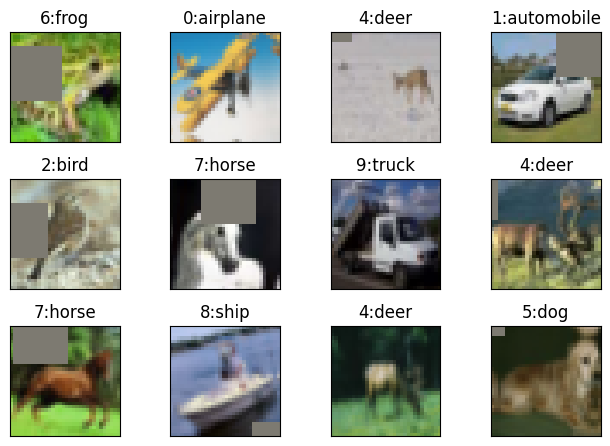
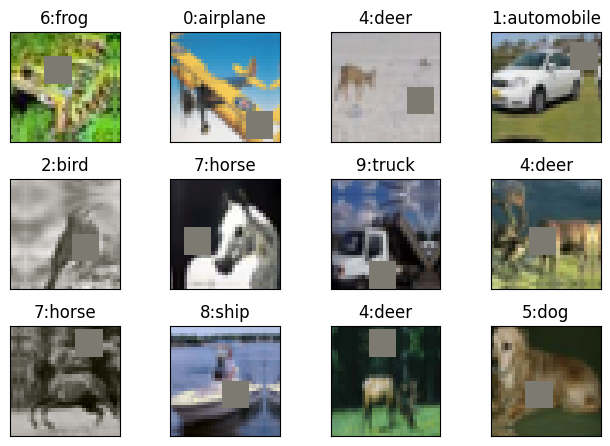
readme

diff --git a/summary.py b/summary.py
@@ -1,4 +1,4 @@
-from custom_model import Model
+from custom_resnet import Model
 
-model = Model()
+model = Model(dropout=0.05)
 model.summary(input_size=(512, 3, 32, 32))

diff --git a/README.md b/README.md
@@ -18,13 +18,12 @@ import albumentations as A
 
 alb_transforms = [
     A.Normalize(mean, std),
+    A.ToGray(p=0.2),
+    A.PadIfNeeded(40, 40, p=1),
+    A.RandomCrop(32, 32, p=1),
     A.HorizontalFlip(p=0.5),
-    A.ShiftScaleRotate(shift_limit=0.0625, scale_limit=0.1, rotate_limit=15),
-    # Padding value doesnt matter here.
-    A.PadIfNeeded(64, 64, border_mode=cv2.BORDER_CONSTANT, value=0, p=1),
     # Since normalisation was the first step, mean is already 0, so cutout fill_value = 0
-    A.CoarseDropout(max_holes=1, max_height=16, max_width=16, fill_value=0, p=0.6),
-    A.CenterCrop(32, 32, p=1),
+    A.CoarseDropout(max_holes=1, max_height=8, max_width=8, fill_value=0, p=1),
     A.pytorch.ToTensorV2()
 ]
 ```
@@ -32,59 +31,86 @@ alb_transforms = [
 ![CIFAR10 Examples](assets/cifar_aug.png)
 
 ### 2. model.py Module
-The model has following unique properties:
-1. It does NOT use any Maxpool or Strided convolutions for increasing RF.
-2. It uses ONLY dilation for increasing RF.
-3. It has 4 (convolution + transition) blocks.
-4. ALL Convolution blocks make use of Depthwise Separable Convolutions.
-5. All Convolution blocks use Skip Connections internally.
+Since the model is very large and was observed to overfit, we added dropout.
 
-The Depthwise Separable Convolution is implemented using a small building block which is as follows:
-
-```python
-self.convlayer = n.Sequential(
-    nn.Conv2d(input_c, output_c, 3, bias=bias, padding=padding, groups=input_c, dilation=dilation,
-              padding_mode='replicate'),
-    nn.BatchNorm2d(output_c),
-    nn.ReLU(),
-    nn.Conv2d(output_c, output_c, 1, bias=bias),
-)
 ```
-The skip connection is implemented in forward function as below.
-
-```python
-def forward(self, x):
-    x_ = x
-    x = self.convlayer(x)
-    x = self.normlayer(x)
-    if self.skip:
-        x += x_
-    x = self.actlayer(x)
-    if self.droplayer is not None:
-        x = self.droplayer(x)
-    return x
+=============================================================================================================================
+Layer (type:depth-idx)                             Output Shape              Param #                   Param %
+=============================================================================================================================
+Model                                              [512, 10]                 --                             --
+├─Sequential: 1-1                                  [512, 10]                 --                             --
+│    └─CustomLayer: 2-1                            [512, 64, 32, 32]         --                             --
+│    │    └─ConvLayer: 3-1                         [512, 64, 32, 32]         --                             --
+│    │    │    └─Sequential: 4-1                   [512, 64, 32, 32]         --                             --
+│    │    │    │    └─Conv2d: 5-1                  [512, 64, 32, 32]         1,728                       0.03%
+│    │    │    │    └─BatchNorm2d: 5-2             [512, 64, 32, 32]         128                         0.00%
+│    │    │    │    └─ReLU: 5-3                    [512, 64, 32, 32]         --                             --
+│    │    │    │    └─Dropout: 5-4                 [512, 64, 32, 32]         --                             --
+│    └─CustomLayer: 2-2                            [512, 128, 16, 16]        --                             --
+│    │    └─ConvLayer: 3-2                         [512, 128, 16, 16]        --                             --
+│    │    │    └─Sequential: 4-2                   [512, 128, 16, 16]        --                             --
+│    │    │    │    └─Conv2d: 5-5                  [512, 128, 32, 32]        73,728                      1.12%
+│    │    │    │    └─MaxPool2d: 5-6               [512, 128, 16, 16]        --                             --
+│    │    │    │    └─BatchNorm2d: 5-7             [512, 128, 16, 16]        256                         0.00%
+│    │    │    │    └─ReLU: 5-8                    [512, 128, 16, 16]        --                             --
+│    │    │    │    └─Dropout: 5-9                 [512, 128, 16, 16]        --                             --
+│    │    └─Sequential: 3-3                        [512, 128, 16, 16]        --                             --
+│    │    │    └─ConvLayer: 4-3                    [512, 128, 16, 16]        --                             --
+│    │    │    │    └─Sequential: 5-10             [512, 128, 16, 16]        --                             --
+│    │    │    │    │    └─Conv2d: 6-1             [512, 128, 16, 16]        147,456                     2.24%
+│    │    │    │    │    └─BatchNorm2d: 6-2        [512, 128, 16, 16]        256                         0.00%
+│    │    │    │    │    └─ReLU: 6-3               [512, 128, 16, 16]        --                             --
+│    │    │    │    │    └─Dropout: 6-4            [512, 128, 16, 16]        --                             --
+│    │    │    └─ConvLayer: 4-4                    [512, 128, 16, 16]        --                             --
+│    │    │    │    └─Sequential: 5-11             [512, 128, 16, 16]        --                             --
+│    │    │    │    │    └─Conv2d: 6-5             [512, 128, 16, 16]        147,456                     2.24%
+│    │    │    │    │    └─BatchNorm2d: 6-6        [512, 128, 16, 16]        256                         0.00%
+│    │    │    │    │    └─ReLU: 6-7               [512, 128, 16, 16]        --                             --
+│    │    │    │    │    └─Dropout: 6-8            [512, 128, 16, 16]        --                             --
+│    └─CustomLayer: 2-3                            [512, 256, 8, 8]          --                             --
+│    │    └─ConvLayer: 3-4                         [512, 256, 8, 8]          --                             --
+│    │    │    └─Sequential: 4-5                   [512, 256, 8, 8]          --                             --
+│    │    │    │    └─Conv2d: 5-12                 [512, 256, 16, 16]        294,912                     4.49%
+│    │    │    │    └─MaxPool2d: 5-13              [512, 256, 8, 8]          --                             --
+│    │    │    │    └─BatchNorm2d: 5-14            [512, 256, 8, 8]          512                         0.01%
+│    │    │    │    └─ReLU: 5-15                   [512, 256, 8, 8]          --                             --
+│    │    │    │    └─Dropout: 5-16                [512, 256, 8, 8]          --                             --
+│    └─CustomLayer: 2-4                            [512, 512, 4, 4]          --                             --
+│    │    └─ConvLayer: 3-5                         [512, 512, 4, 4]          --                             --
+│    │    │    └─Sequential: 4-6                   [512, 512, 4, 4]          --                             --
+│    │    │    │    └─Conv2d: 5-17                 [512, 512, 8, 8]          1,179,648                  17.95%
+│    │    │    │    └─MaxPool2d: 5-18              [512, 512, 4, 4]          --                             --
+│    │    │    │    └─BatchNorm2d: 5-19            [512, 512, 4, 4]          1,024                       0.02%
+│    │    │    │    └─ReLU: 5-20                   [512, 512, 4, 4]          --                             --
+│    │    │    │    └─Dropout: 5-21                [512, 512, 4, 4]          --                             --
+│    │    └─Sequential: 3-6                        [512, 512, 4, 4]          --                             --
+│    │    │    └─ConvLayer: 4-7                    [512, 512, 4, 4]          --                             --
+│    │    │    │    └─Sequential: 5-22             [512, 512, 4, 4]          --                             --
+│    │    │    │    │    └─Conv2d: 6-9             [512, 512, 4, 4]          2,359,296                  35.89%
+│    │    │    │    │    └─BatchNorm2d: 6-10       [512, 512, 4, 4]          1,024                       0.02%
+│    │    │    │    │    └─ReLU: 6-11              [512, 512, 4, 4]          --                             --
+│    │    │    │    │    └─Dropout: 6-12           [512, 512, 4, 4]          --                             --
+│    │    │    └─ConvLayer: 4-8                    [512, 512, 4, 4]          --                             --
+│    │    │    │    └─Sequential: 5-23             [512, 512, 4, 4]          --                             --
+│    │    │    │    │    └─Conv2d: 6-13            [512, 512, 4, 4]          2,359,296                  35.89%
+│    │    │    │    │    └─BatchNorm2d: 6-14       [512, 512, 4, 4]          1,024                       0.02%
+│    │    │    │    │    └─ReLU: 6-15              [512, 512, 4, 4]          --                             --
+│    │    │    │    │    └─Dropout: 6-16           [512, 512, 4, 4]          --                             --
+│    └─MaxPool2d: 2-5                              [512, 512, 1, 1]          --                             --
+│    └─Flatten: 2-6                                [512, 512]                --                             --
+│    └─Linear: 2-7                                 [512, 10]                 5,130                       0.08%
+=============================================================================================================================
+Total params: 6,573,130
+Trainable params: 6,573,130
+Non-trainable params: 0
+Total mult-adds (Units.GIGABYTES): 194.18
+=============================================================================================================================
+Input size (MB): 6.29
+Forward/backward pass size (MB): 2382.41
+Params size (MB): 26.29
+Estimated Total Size (MB): 2414.99
+=============================================================================================================================
 ```
-And finally model is put together in class Model.
-
-#### Receptive field Calculations:
-
-| Layer | Input Size | Input RF | Jump In | Padding | Kernel Size | Dilation | Eff. Kernel Size | Stride | Output Size | Output RF | Jump Out |
-| ----- | ---------- | -------- | ------- | ------- | ----------- | -------- | ---------------- | ------ | ----------- | --------- | -------- |
-| 0     | 32         | 1        | 1       | 0       | 1           | 1        | 1                | 1      | 32          | 1         | 1        |
-| 1     | 32         | 1        | 1       | 1       | 3           | 1        | 3                | 1      | 32          | 3         | 1        |
-| 2     | 32         | 3        | 1       | 1       | 3           | 1        | 3                | 1      | 32          | 5         | 1        |
-| 3     | 32         | 5        | 1       | 0       | 3           | 1        | 3                | 1      | 30          | 7         | 1        |
-| 4     | 30         | 7        | 1       | 1       | 3           | 1        | 3                | 1      | 30          | 9         | 1        |
-| 5     | 30         | 9        | 1       | 1       | 3           | 1        | 3                | 1      | 30          | 11        | 1        |
-| 6     | 30         | 11       | 1       | 0       | 3           | 2        | 5                | 1      | 26          | 15        | 1        |
-| 7     | 26         | 15       | 1       | 1       | 3           | 1        | 3                | 1      | 26          | 17        | 1        |
-| 8     | 26         | 17       | 1       | 1       | 3           | 1        | 3                | 1      | 26          | 19        | 1        |
-| 9     | 26         | 19       | 1       | 0       | 3           | 4        | 9                | 1      | 18          | 27        | 1        |
-| 10    | 18         | 27       | 1       | 1       | 3           | 1        | 3                | 1      | 18          | 29        | 1        |
-| 11    | 18         | 29       | 1       | 1       | 3           | 1        | 3                | 1      | 18          | 31        | 1        |
-| 12    | 18         | 31       | 1       | 0       | 3           | 8        | 17               | 1      | 2           | 47        | 1        |
-| 13    | 2          | 47       | 1       | 0       | 2           | 1        | 2                | 2      | 1           | 48        | 2        |
-| 14    | 1          | 48       | 2       | 0       | 1           | 1        | 1                | 1      | 1           | 48        | 2        |
 
 ### 3. backprop.py Module
 This module contains 3 classes:
@@ -94,6 +120,10 @@ This module contains 3 classes:
 
 Experiment class performs train-test iterations for a given number of epochs or a given validation target. It can also find and plot misclassified examples using a simple function.
 
+It also finds the max LR using LRFinder for OneCycleLR.
+
+![LRFinder](assets/lrfinder.png)
+
 Train and Test classes perform training and testing respectively on given model and dataset. They also accumulate statistics which can be plotted using a simple member functions.
 
 ### 4. utils.py Modele
@@ -101,9 +131,9 @@ This module contains miscellaneous functions like detecting device and setting r
 
 ## The Results
 
-Best Train Accuracy: 85.85%
+Best Train Accuracy: 92.86%
 
-Best Test Accuracy: 86.68%
+Best Test Accuracy: 91.3%
 
 ![Training](assets/train.png)
 ![Testing](assets/test.png)
